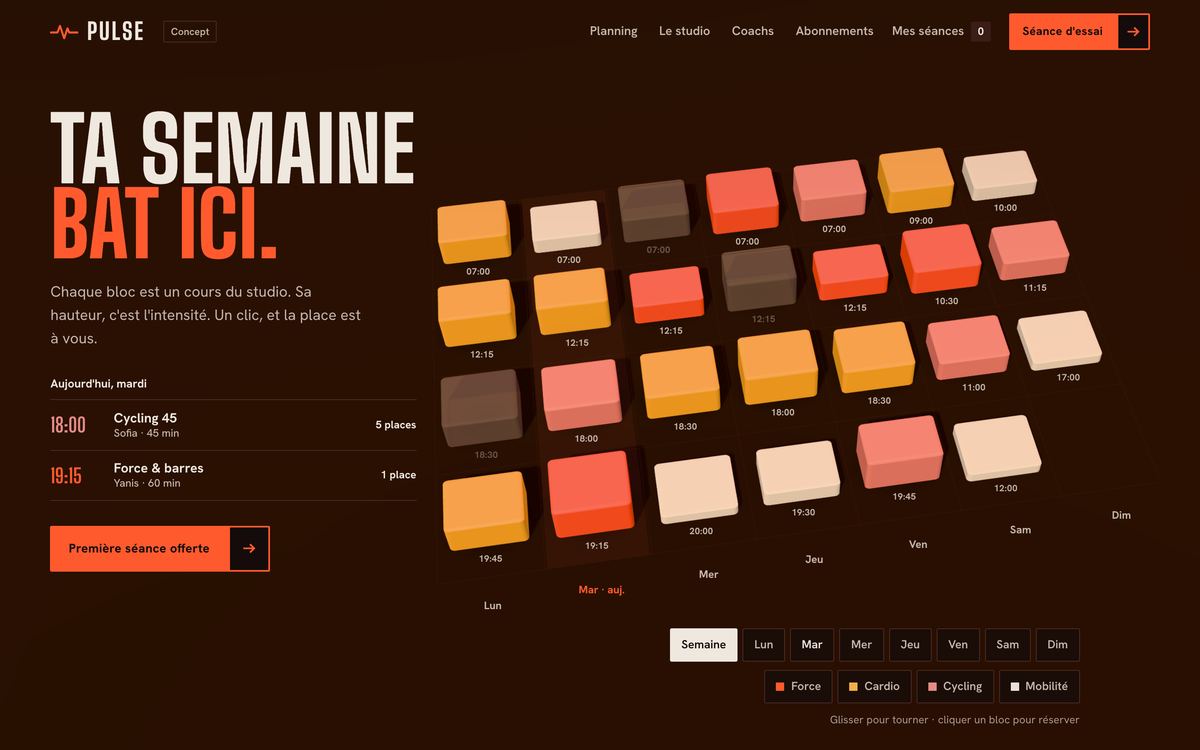
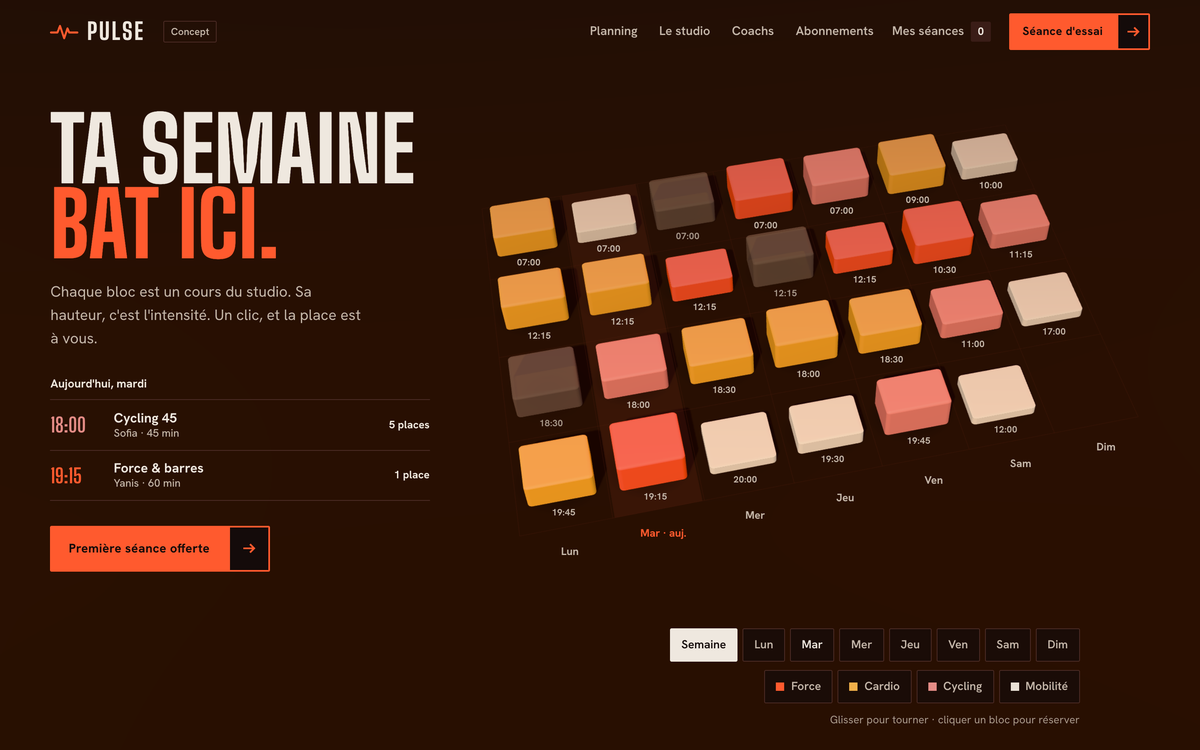
PULSE : la semaine 3D reste à droite du texte à toutes les largeurs de bureau

Changed region(s): [[0.3083, 0.184, 0.925, 0.7667], [0.925, 0.6747, 0.9558, 0.7053], [0.4933, 0.7667, 0.5242, 0.7973]]

diff --git a/demos/vitrines/fitness/semaine3d.js b/demos/vitrines/fitness/semaine3d.js
@@ -201,6 +201,52 @@ function placerMobile() {
 }
 let nJour = 0;
 
+/* ------------------------------------------------------------ cadrage automatique (bureau, tablette)
+   La grille projetée (blocs, heures au sol, noms des jours) doit tenir dans la
+   zone libre : à droite de la colonne de texte, sous la navigation, au-dessus
+   des puces. À chaque image on mesure sa boîte à l'écran et on corrige le
+   décalage de vue et la distance de la caméra, en douceur. */
+const cadre = { x: 0, y: 0, k: 1 };
+const coins = [];
+function zoneLibre() {
+  const rc = toile.getBoundingClientRect();
+  let g = 28, h = 24, b = rc.height - 24;
+  const nav = document.getElementById('nav');
+  if (nav) h = Math.max(h, nav.getBoundingClientRect().bottom - rc.top + 16);
+  document.querySelectorAll('.semaine-texte > *').forEach((el) => {
+    const r = el.getBoundingClientRect();
+    if (r.width && r.bottom > rc.top && r.top < rc.bottom && r.left < rc.left + rc.width / 2) g = Math.max(g, r.right - rc.left + 40);
+  });
+  const cmd = document.querySelector('.commandes');
+  if (cmd) {
+    const r = cmd.getBoundingClientRect();
+    if (r.top > rc.top + rc.height / 2 && r.top < rc.bottom && r.left < rc.right) b = Math.min(b, r.top - rc.top - 12);
+  }
+  return { g, d: rc.width - 28, h, b };
+}
+function ajusterCadre(dt) {
+  camera.updateMatrixWorld();
+  const vis = blocs.filter((m) => !m.userData.horsJour && (jourVise < 0 || m.userData.cours.j === jourVise));
+  if (!vis.length) return false;
+  let x0 = Infinity, x1 = -Infinity, z0 = Infinity, z1 = -Infinity;
+  vis.forEach((m) => { const u = m.userData.ici; x0 = Math.min(x0, u.x - u.sx / 2); x1 = Math.max(x1, u.x + u.sx / 2); z0 = Math.min(z0, u.z - u.sz / 2); z1 = Math.max(z1, u.z + u.sz / 2); });
+  x0 -= 0.35; x1 += 0.35; z0 -= 0.3; z1 = zMax + 0.85;      // marge pour les heures et les jours
+  coins.length = 0;
+  for (const x of [x0, x1]) for (const z of [z0, z1]) for (const y of [0, 1.0]) coins.push(projeter(tmp.set(x, y, z)));
+  const bx0 = Math.min(...coins.map((c) => c.x)), bx1 = Math.max(...coins.map((c) => c.x));
+  const by0 = Math.min(...coins.map((c) => c.y)), by1 = Math.max(...coins.map((c) => c.y));
+  const z = zoneLibre();
+  const s = Math.min((z.d - z.g) / (bx1 - bx0), (z.b - z.h) / (by1 - by0));
+  const kCible = clamp(cadre.k / Math.min(s / 1.02, 1.25), 0.6, 2.5);
+  const t = 1 - Math.exp(-6 * dt);
+  const dx = (bx0 + bx1) / 2 - (z.g + z.d) / 2, dy = (by0 + by1) / 2 - (z.h + z.b) / 2;
+  cadre.k = lerp(cadre.k, kCible, t);
+  cadre.x += dx * t; cadre.y += dy * t;
+  camera.setViewOffset(L, H, cadre.x, cadre.y, L, H);
+  camera.updateProjectionMatrix();
+  return Math.abs(dx) > 0.5 || Math.abs(dy) > 0.5 || Math.abs(kCible - cadre.k) > 0.003;
+}
+
 /* ------------------------------------------------------------ cadrage */
 let L = 1, H = 1;
 const cam = { x: 0, z: 0, dist: 27 };
@@ -218,7 +264,7 @@ function cadrage() {
     camCible.dist = mob ? 21 : 19;
   } else {
     camCible.x = 0; camCible.z = 0;
-    camCible.dist = mob ? (L / H > 1.2 ? 21 : 31) : (L / H < 1.3 ? 27 : 27);
+    camCible.dist = mob ? (L / H > 1.2 ? 21 : 31) : 27;
   }
 }
 function dimensionner() {
@@ -228,8 +274,8 @@ function dimensionner() {
   rendu.setSize(L, H, false);
   camera.aspect = L / H;
   /* sur grand écran, la semaine se décale à droite pour laisser le titre respirer */
-  if (innerWidth > 1100) camera.setViewOffset(L, H, -L * 0.14, H * 0.07, L, H);
-  else camera.clearViewOffset();
+  if (estMobile()) camera.clearViewOffset();
+  else camera.setViewOffset(L, H, cadre.x, cadre.y, L, H);
   camera.updateProjectionMatrix();
   cadrage();
   demander();
@@ -401,10 +447,11 @@ function image(maintenant) {
   bande.visible = !mobJour;
   cam.x = amortir(cam.x, camCible.x, 4, dt);
   cam.z = amortir(cam.z, camCible.z, 4, dt);
-  cam.dist = amortir(cam.dist, camCible.dist, 4, dt);
+  const distVise = camCible.dist * (estMobile() ? 1 : cadre.k);
+  cam.dist = amortir(cam.dist, distVise, 4, dt);
   yaw = amortir(yaw, yawCible, 5, dt);
   tir = amortir(tir, tirCible, 5, dt);
-  if (Math.abs(angBase - angVise) > 0.001 || Math.abs(cam.dist - camCible.dist) > 0.01 || Math.abs(cam.x - camCible.x) > 0.005 || Math.abs(yaw - yawCible) > 0.001) actif = true;
+  if (Math.abs(angBase - angVise) > 0.001 || Math.abs(cam.dist - distVise) > 0.01 || Math.abs(cam.x - camCible.x) > 0.005 || Math.abs(yaw - yawCible) > 0.001) actif = true;
 
   angBase = amortir(angBase, angVise, 4, dt);
   const ang = angBase + yaw;
@@ -415,6 +462,7 @@ function image(maintenant) {
     cam.z + Math.cos(ang) * Math.cos(elev) * cam.dist
   );
   camera.lookAt(cam.x, 0.4, cam.z);
+  if (!estMobile() && ajusterCadre(dt)) actif = true;
 
   bande.material.opacity = 0.05 + (calme ? 0 : Math.max(0, Math.sin(temps * 2.4)) * 0.035);
   rendu.render(scene, camera);

diff --git a/demos/vitrines/fitness/pulse.css b/demos/vitrines/fitness/pulse.css
@@ -112,7 +112,7 @@ section{padding:clamp(80px,11vw,160px) var(--marge)}
 .sans-3d .semaine-repli img{width:100%;height:100%;object-fit:cover;opacity:.45}
 .sans-3d .s3d-cadre,.sans-3d .aide{display:none}
 
-.semaine-texte{position:relative;z-index:2;padding:clamp(110px,15vh,170px) var(--marge) 0;max-width:min(560px,46vw);pointer-events:none}
+.semaine-texte{position:relative;z-index:2;padding:clamp(110px,15vh,170px) var(--marge) 0;max-width:min(640px,40vw);pointer-events:none}
 .semaine-texte > *{pointer-events:auto}
 .semaine h1{font-size:clamp(60px,7.4vw,124px);line-height:.84}
 .semaine h1 span{display:block}
